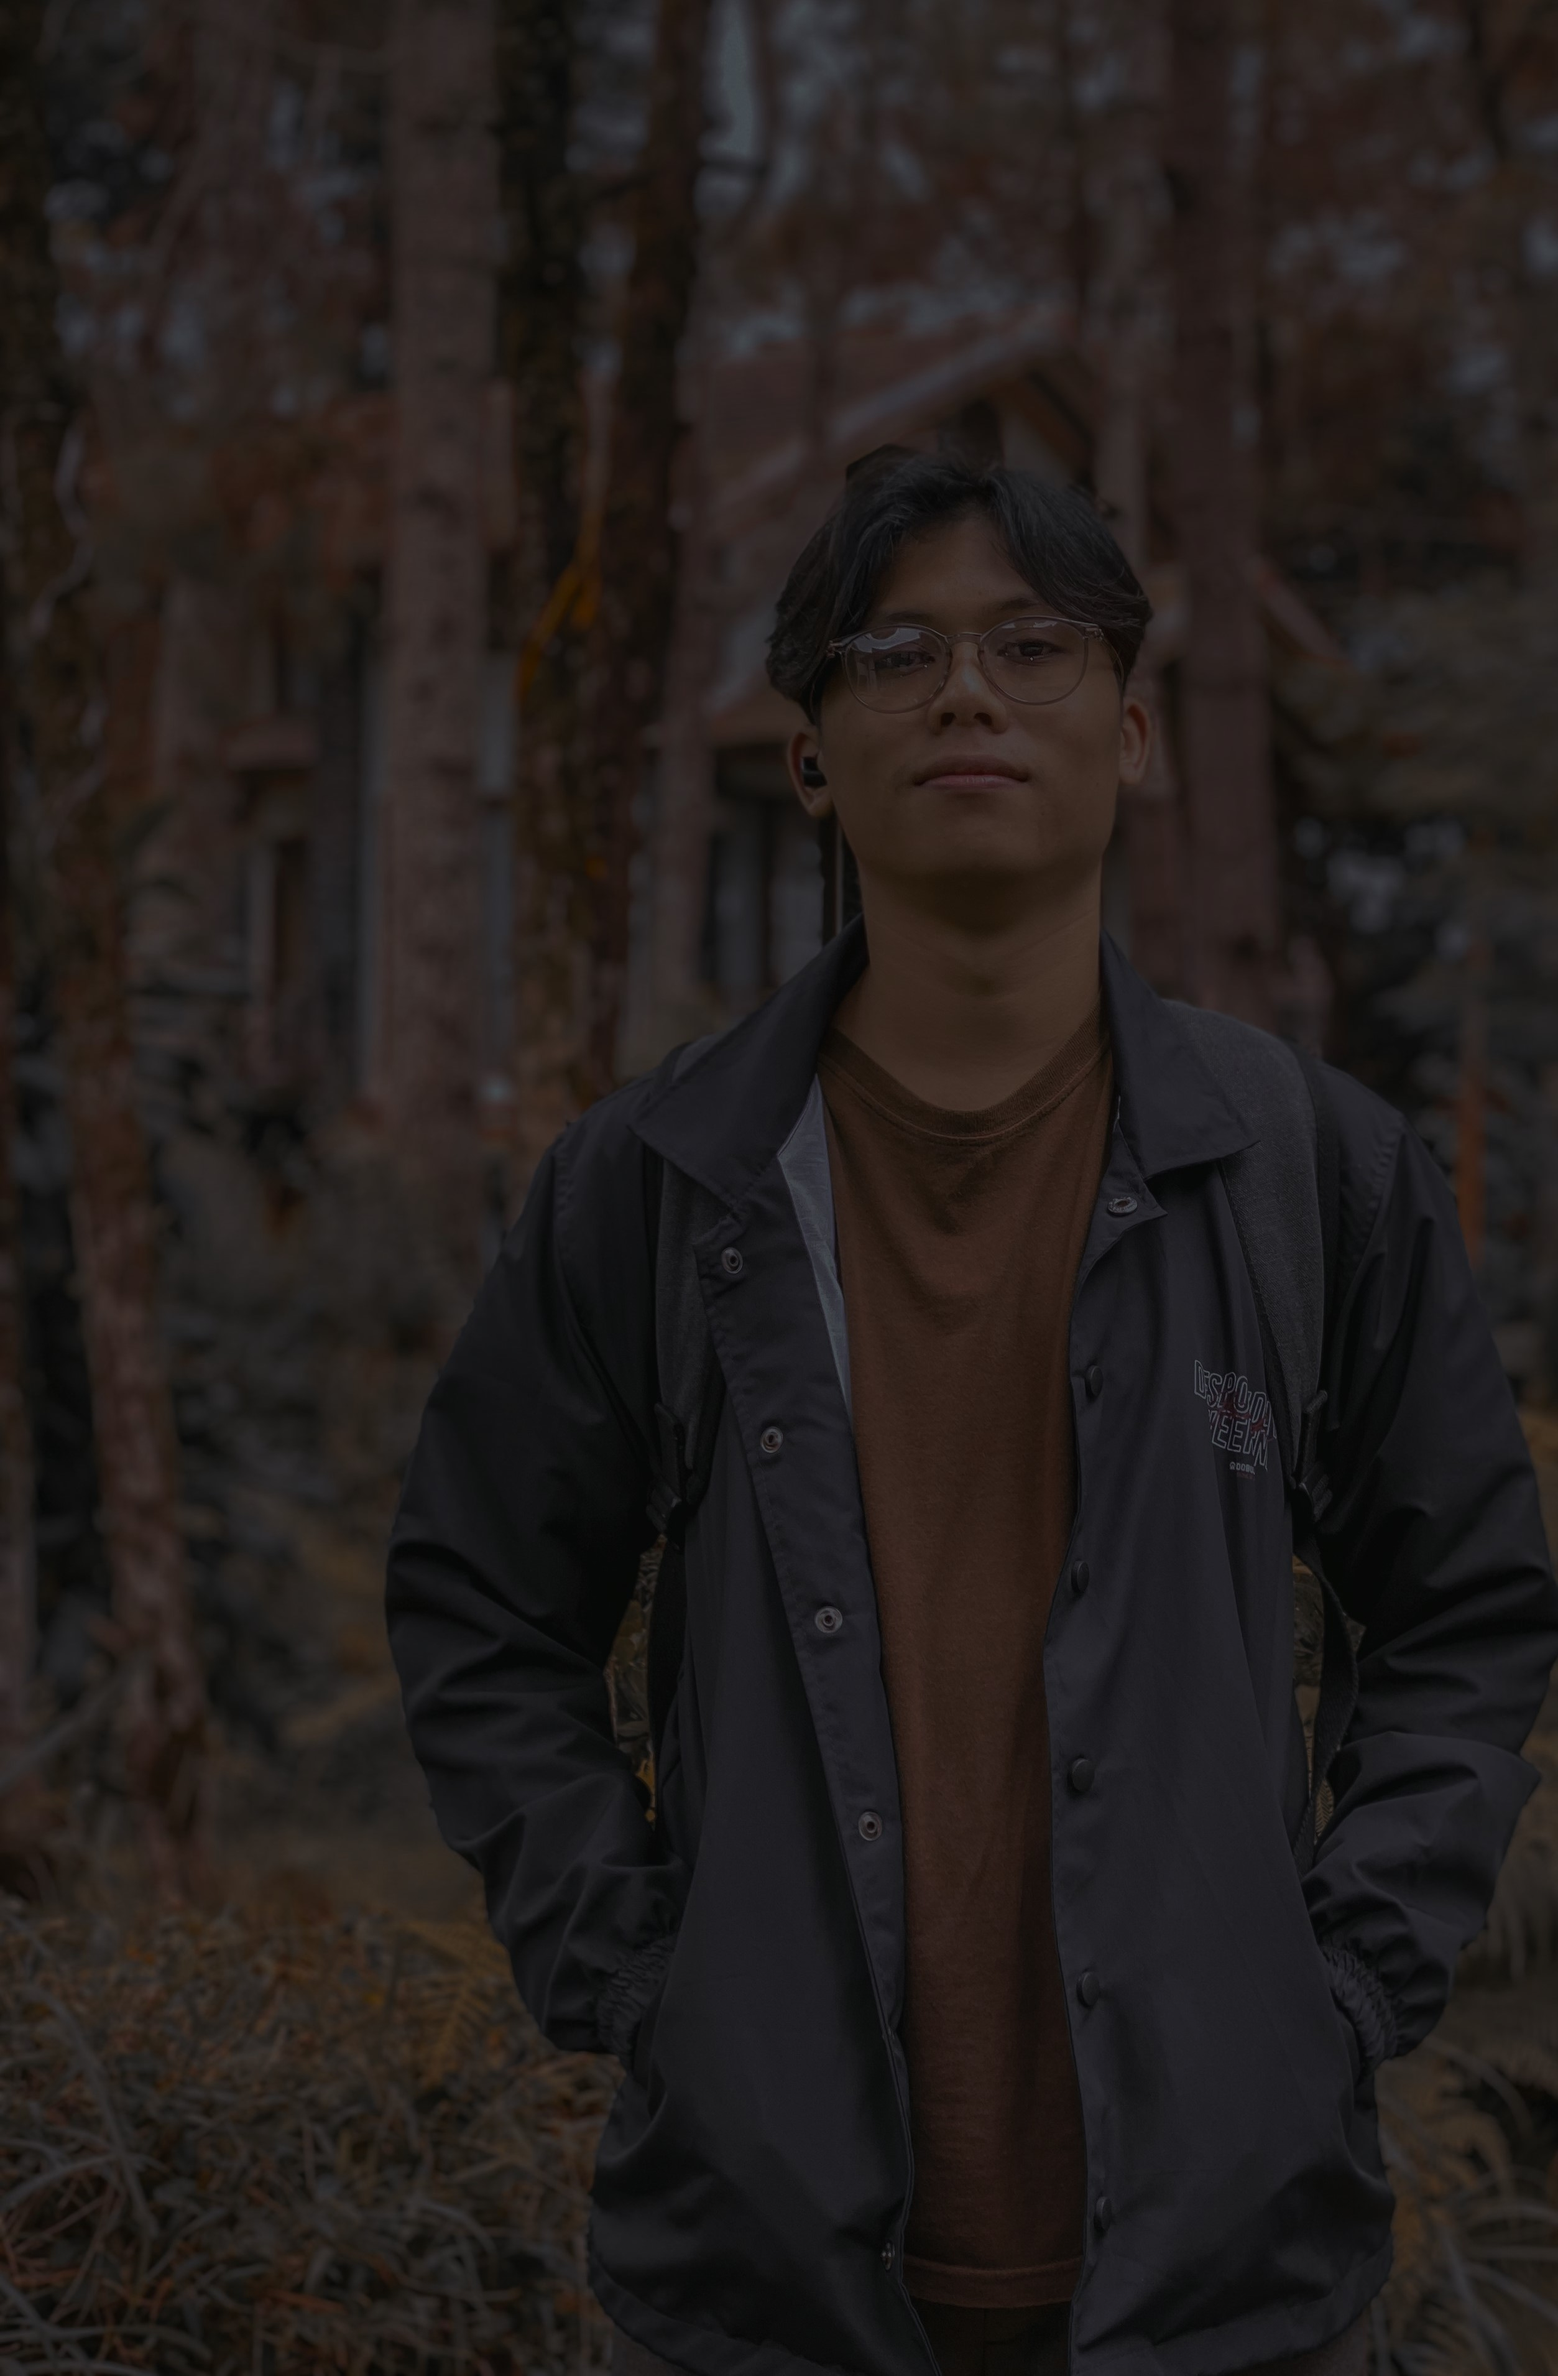
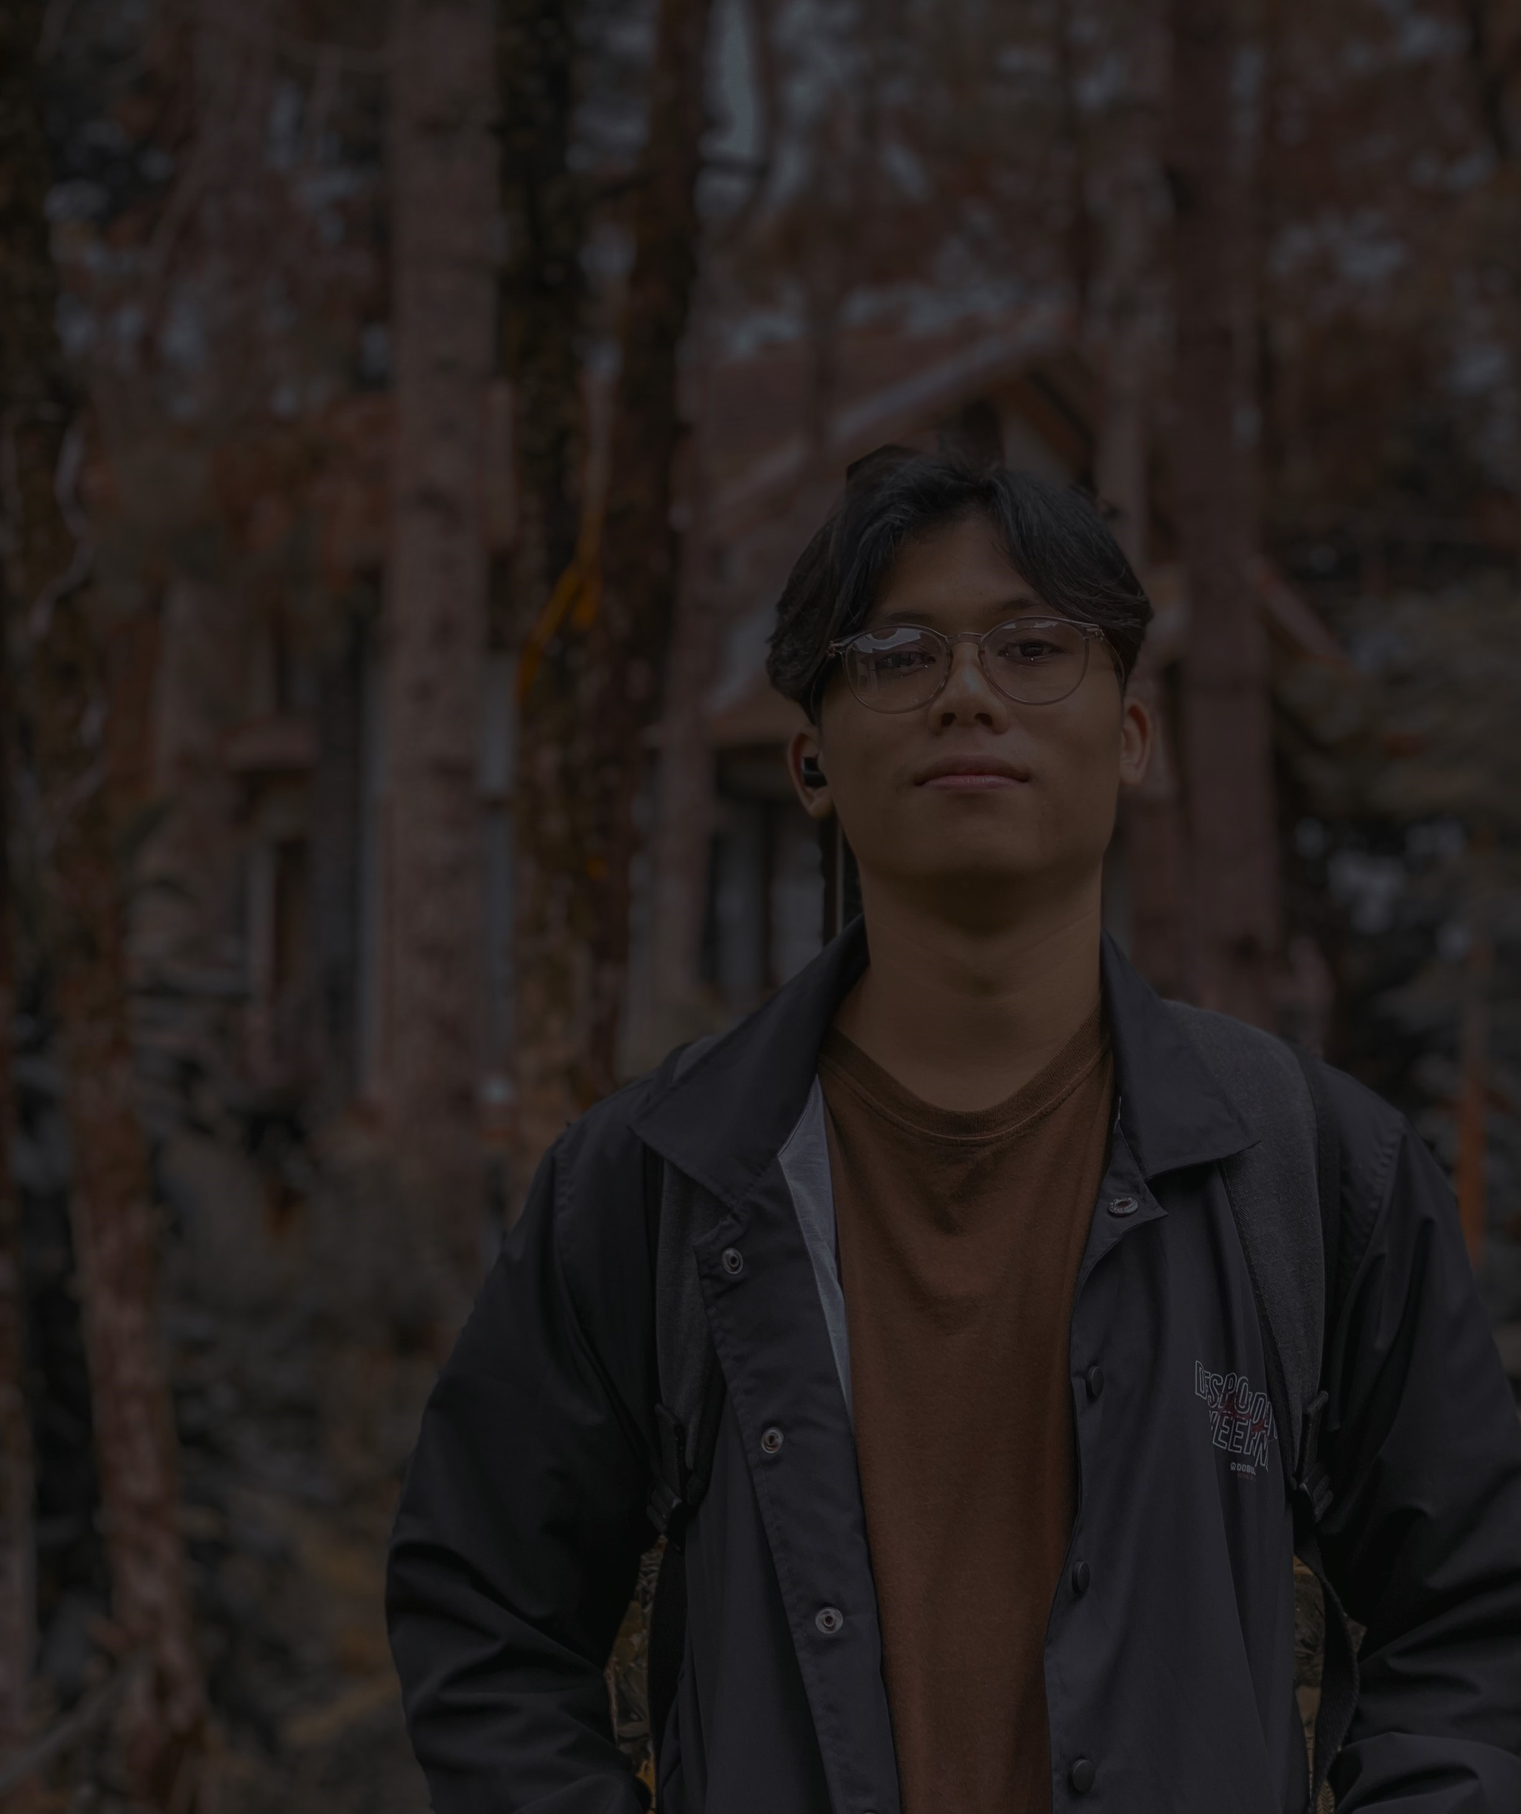
fix: hero bg

diff --git a/assets/css/main.css b/assets/css/main.css
@@ -579,7 +579,7 @@ section,
   width: 100%;
   height: 100%;
   object-fit: cover;
-  object-position: center;
+  object-position: top;
   z-index: 1;
 }
 
